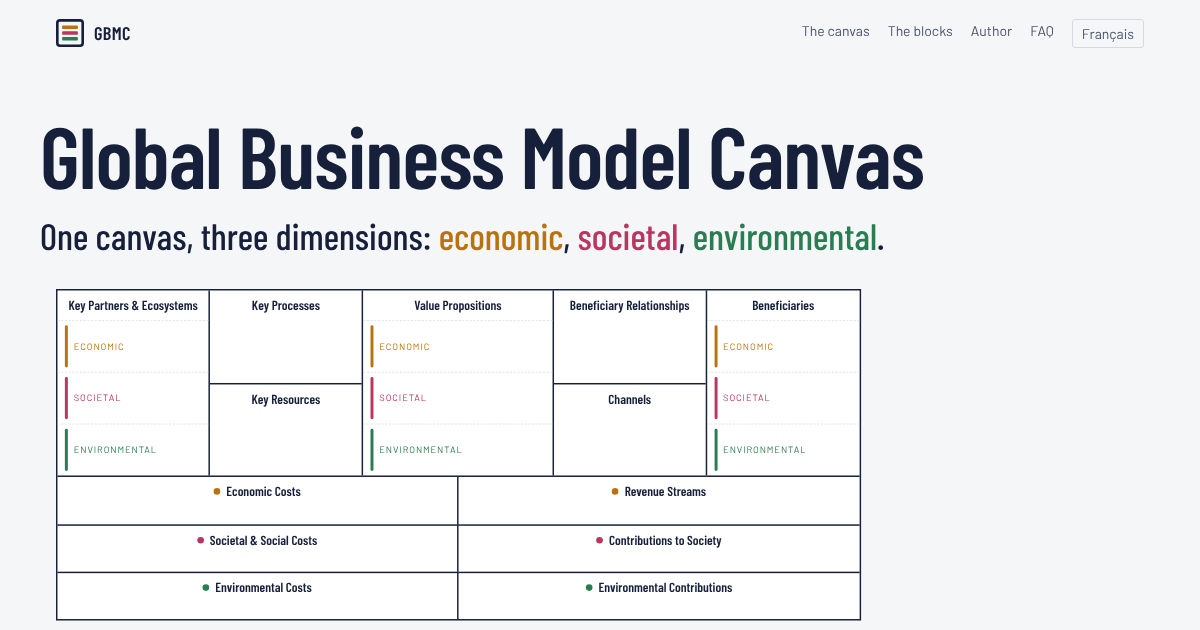
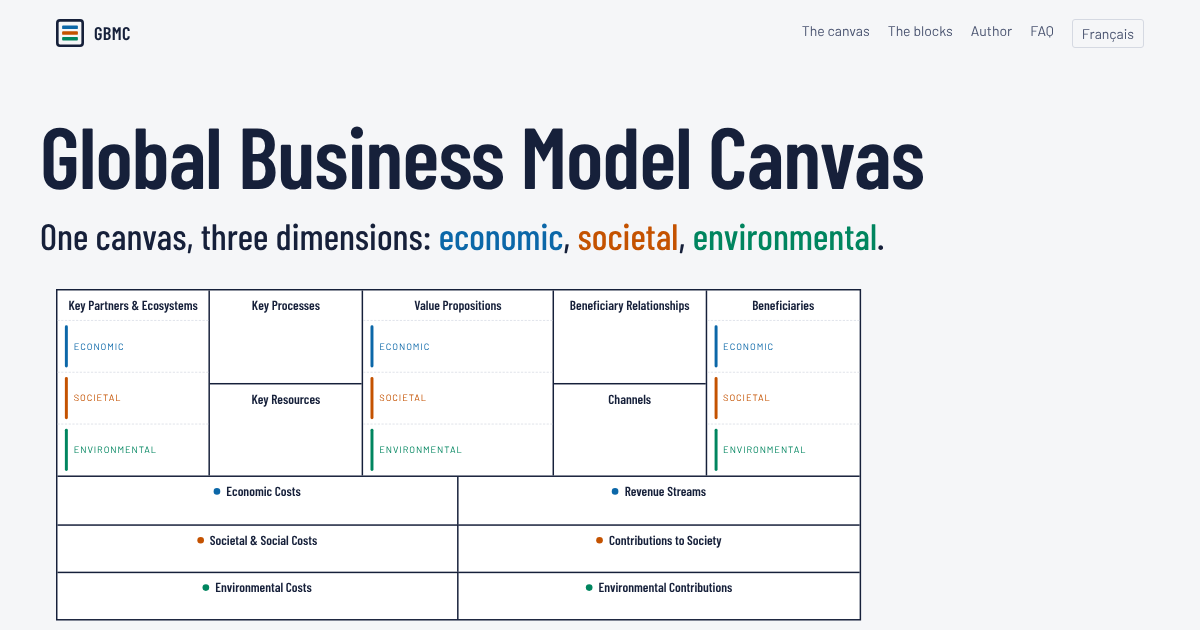
Switch the three dimensions to a colour-blind-safe palette
Economic blue, societal orange, environmental green in light, dark and print, plus updated favicon, share image and blank canvas PDFs.

Claude-Session: https://claude.ai/code/session_013pEuNdwX9xiLWqfxuVUQWM

diff --git a/assets/style.css b/assets/style.css
@@ -8,12 +8,12 @@
   --rule: #d5d9e2;
   --rule-strong: #16203a;
   --accent: #2b3f8c;
-  --eco: #b8730f;        /* economic */
-  --soc: #b8365f;        /* societal */
-  --env: #2a7d52;        /* environmental */
-  --eco-wash: #fbf1e1;
-  --soc-wash: #fbe7ee;
-  --env-wash: #e3f3ea;
+  --eco: #0b67a8;        /* economic */
+  --soc: #c45200;        /* societal */
+  --env: #00855f;        /* environmental */
+  --eco-wash: #e4effa;
+  --soc-wash: #fcebdf;
+  --env-wash: #dff3ec;
 
   --display: "Barlow Condensed", "Arial Narrow", "Roboto Condensed", sans-serif;
   --body: "Literata", Georgia, "Times New Roman", serif;
@@ -30,16 +30,16 @@
   :root:not([data-theme="light"]) {
     --paper: #10141f; --surface: #171d2c; --ink: #e8ebf2; --ink-soft: #a6aec2;
     --rule: #2c3447; --rule-strong: #c9cfdd; --accent: #8fa3f0;
-    --eco: #e3a84b; --soc: #ec7c9f; --env: #5fc08b;
-    --eco-wash: #2a2213; --soc-wash: #2c1820; --env-wash: #13261c;
+    --eco: #5eb0ec; --soc: #f2894a; --env: #33c49a;
+    --eco-wash: #12263a; --soc-wash: #2e1d12; --env-wash: #0f2a22;
     color-scheme: dark;
   }
 }
 :root[data-theme="dark"] {
   --paper: #10141f; --surface: #171d2c; --ink: #e8ebf2; --ink-soft: #a6aec2;
   --rule: #2c3447; --rule-strong: #c9cfdd; --accent: #8fa3f0;
-  --eco: #e3a84b; --soc: #ec7c9f; --env: #5fc08b;
-  --eco-wash: #2a2213; --soc-wash: #2c1820; --env-wash: #13261c;
+  --eco: #5eb0ec; --soc: #f2894a; --env: #33c49a;
+  --eco-wash: #12263a; --soc-wash: #2e1d12; --env-wash: #0f2a22;
   color-scheme: dark;
 }
 
@@ -247,7 +247,7 @@ footer .wrap { display: flex; flex-wrap: wrap; justify-content: space-between; g
 @media print {
   html:root:not(#x) {
     --paper: #ffffff; --surface: #ffffff; --ink: #16203a; --ink-soft: #4a5470; --rule: #c9ced9; --rule-strong: #16203a;
-    --eco: #b8730f; --soc: #b8365f; --env: #2a7d52; color-scheme: light;
+    --eco: #0b67a8; --soc: #c45200; --env: #00855f; color-scheme: light;
   }
   @page { size: A4 landscape; margin: 8mm; }
   body { background: #fff; -webkit-print-color-adjust: exact; print-color-adjust: exact; }
